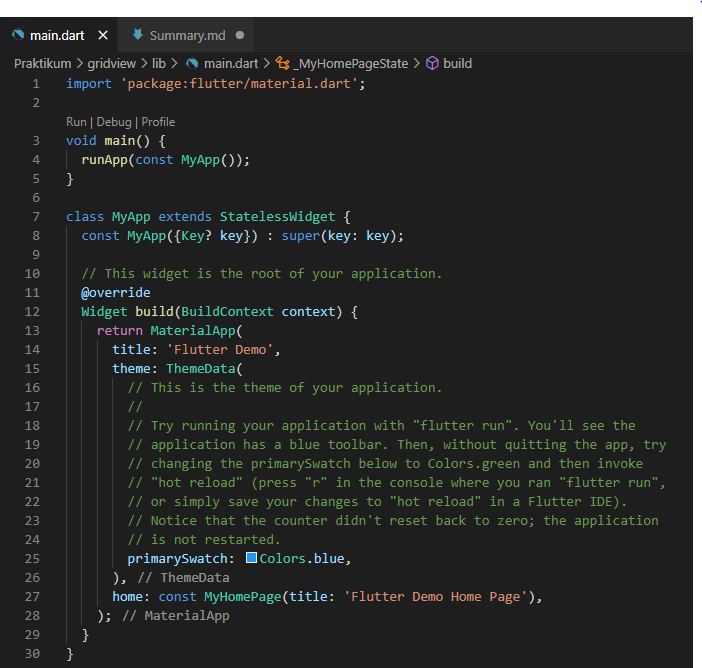
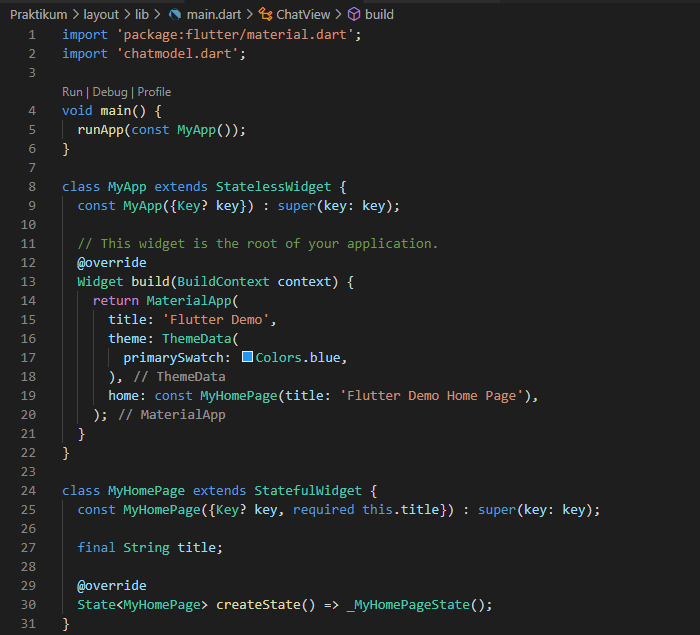
add

Changed region(s): [[0.0, 0.0, 1.0, 1.0], [0.51, 0.9276, 0.69, 0.9575], [0.93, 0.6583, 0.96, 0.6882]]

diff --git a/14_Flutter Layout/Summary.md b/14_Flutter Layout/Summary.md
@@ -1,0 +1,52 @@
+# 14_Flutter Layout
+
+Nama : Ditya Anggraeni
+
+Program : Become a Flutter Master, From Zero to Hero
+
+Repo : https://github.com/Rae2108/flutter_ditya-anggraeni
+
+## Tuliskan 3 poin yang dipelajari dari materi tersebut. Resume / ringkasan materi dapat disubmit melalui Github
+
+### Jawab : 
+
+1. Apa itu Layout : layout digunakan untuk mengatur tata letak, seperti image, text. layout berbentuk widget yang mengatur widget di dalamnya.
+
+2. Single-Child Layout : 
+    - Container yang dimana dapat membungkus widget lain sebagai child. Container Box memiliki margin, padding dan border.
+    - Center akan memnuhi lebar dan tinggi disetiap ruang luarnya dan dapat membungkus widget lain sebagai childnya, Widget center akan diletakkan dibagian tengah.
+    - Sizebox : merupakan bentuk sederhana dari container karena hanya memiliki beberapa komponen seperti child, height dan width jadi hanya untuk mengatur lebar dan tingginya.
+
+3. Multi Child Layout : digunakan untuk meletakkan child lebih dari 1 dan child yang digunakan bertipe array widget.
+    - Coloum : Mengatur Widget secara Vertical
+    - Row : Mengatur Widget secara Horizontal
+    - List View : Mengatur widget dalam bentu lain dan dapat di scroll
+    - Grid View : Mengatur widget dalam bentuk galeri.
+
+============================================================================================
+
+## TASK
+
+1. [main1.PNG](./Screenshot/main1.PNG) [main1_1.PNG](./Screenshot/main1_1.PNG) [main1_2.PNG](./Screenshot/main1_2.PNG) [main1_3.PNG](./Screenshot/main1_3.PNG) [chatmodel.PNG](./Screenshot/chatmodel.PNG) 
+
+![main1.PNG](./Screenshot/main1.PNG) ![main1_1.PNG](./Screenshot/main1_1.PNG) ![main1_2.PNG](./Screenshot/main1_2.PNG) ![main1_3.PNG](./Screenshot/main1_3.PNG) ![chatmodel.PNG](./Screenshot/chatmodel.PNG) 
+
+Penggunaan ListView menggunakan Widget ListView kemudian didalam ListView gunakan kode dan list chat yang sudah dibuat sebelumnya.
+
+Output : ![output1.PNG](./Screenshot/output1.PNG)
+
+2. [main_2.PNG](./Screenshot/main2.PNG) [main_2-1.PNG](./Screenshot/main2-1.PNG) [main_2-2.PNG](./Screenshot/main2-2.PNG) [main_2-3.PNG](./Screenshot/main2-3.PNG)
+
+![main_2.PNG](./Screenshot/main2.PNG) ![main_2-1.PNG](./Screenshot/main2-1.PNG) ![main_2-2.PNG](./Screenshot/main2-2.PNG) ![main_2-3.PNG](./Screenshot/main2-3.PNG)
+
+Untuk menggunakan GridView gunakan Widget GridView.count kemudian didalamnya berisikan properti :
+    - primary: false,
+    - padding: const EdgeInsets.all(20),
+    - crossAxisSpacing: 10,
+    - mainAxisSpacing: 10,
+    - crossAxisCount: 4,
+Artinya dalam satu baris terdapat 4 gambar/kotak/ikon, dapat diatur dibagian crossAxisCount lalu untuk spasi/jarak antara kotak/ikon berada di mainAxisSpacing. Penggunaan container untuk menempatkan icon agar dapat membuat background pada containernya agar terlihat jelas jaraknya.
+
+Output : 
+
+![output2.PNG](./Screenshot/output2.PNG)
